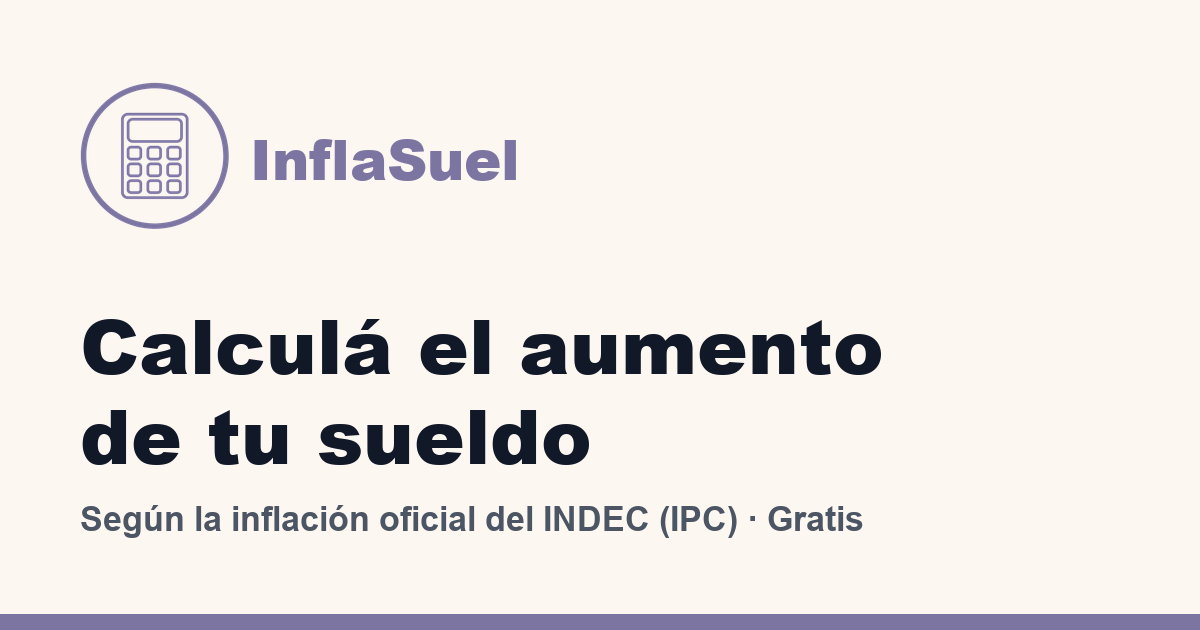
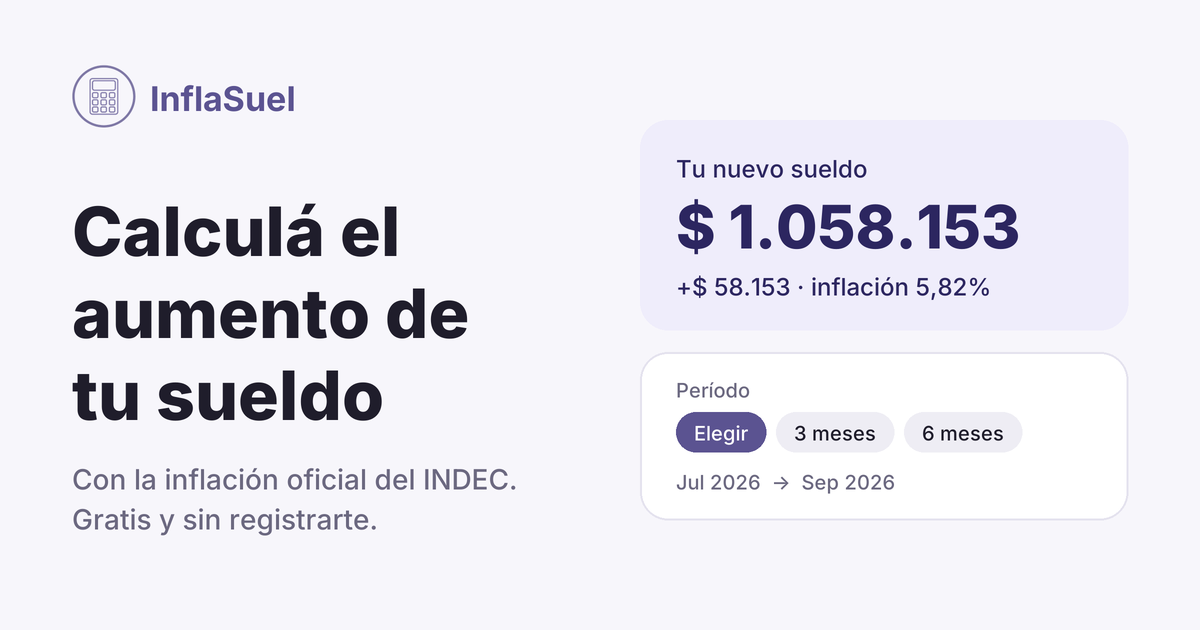
Compartir: imagen con el diseño nuevo, mejor texto y link con el período
- og-image rehecha con el estilo actual (Inter, tarjeta de resultado)
- Mensaje: "La inflación de junio a septiembre de 2026 fue de 7,81%..."
  con el link dentro del texto
- El link lleva ?desde=&hasta= y la app abre en ese período

diff --git a/src/components/ResultCard/index.jsx b/src/components/ResultCard/index.jsx
@@ -1,13 +1,15 @@
-import { formatearMesCorto, formatearPesos, formatearPorcentaje } from '../../lib/inflacion'
+import { formatearPesos, formatearPorcentaje, formatearRango } from '../../lib/inflacion'
 
 const SITIO = 'https://inflasuel.vercel.app'
 
+// El link lleva el período, así quien lo abre ve los mismos meses.
+// La URL va dentro del texto: varias apps descartan el texto si se pasa `url` aparte.
 const compartir = async (texto) => {
   if (navigator.share) {
-    try { await navigator.share({ text: texto, url: SITIO }) } catch {}
+    try { await navigator.share({ text: texto }) } catch {}
     return
   }
-  window.open(`https://wa.me/?text=${encodeURIComponent(`${texto} ${SITIO}`)}`, '_blank', 'noopener')
+  window.open(`https://wa.me/?text=${encodeURIComponent(texto)}`, '_blank', 'noopener')
 }
 
 const ResultCard = ({ estado, calculo, sueldo, desde, hasta, onReintentar }) => {
@@ -34,8 +36,8 @@ const ResultCard = ({ estado, calculo, sueldo, desde, hasta, onReintentar }) => 
 
   const { inflacion } = calculo
   const aumento = sueldo * inflacion / 100
-  const periodo = desde === hasta ? formatearMesCorto(desde) : `${formatearMesCorto(desde)} a ${formatearMesCorto(hasta)}`
-  const textoCompartir = `La inflación de ${periodo} fue ${formatearPorcentaje(inflacion)} según el INDEC. Calculá cuánto debería aumentar tu sueldo:`
+  const link = `${SITIO}/?desde=${desde}&hasta=${hasta}`
+  const textoCompartir = `📈 La inflación de ${formatearRango(desde, hasta)} fue de ${formatearPorcentaje(inflacion)}, según el INDEC.\n\nCalculá cuánto debería aumentar tu sueldo 👉 ${link}`
 
   return (
     <div className='rounded-3xl bg-accent-soft p-6 text-accent-ink' aria-live='polite'>

diff --git a/src/App.jsx b/src/App.jsx
@@ -20,6 +20,14 @@ const rangoDePreset = (serie, modo) => {
   return [serie[Math.max(1, ultimo - Number(modo) + 1)].periodo, hasta]
 }
 
+// Período que viene en un link compartido (?desde=2026-06&hasta=2026-09), si es válido
+const rangoDeLink = (serie) => {
+  const params = new URLSearchParams(window.location.search)
+  const [desde, hasta] = [params.get('desde'), params.get('hasta')]
+  const validos = new Set(serie.slice(1).map(d => d.periodo))
+  return validos.has(desde) && validos.has(hasta) && desde <= hasta ? [desde, hasta] : null
+}
+
 function App() {
   const [serie, setSerie] = useState([])
   const [estado, setEstado] = useState('cargando') // 'cargando' | 'listo' | 'error'
@@ -36,7 +44,7 @@ function App() {
       .then(datos => {
         setSerie(datos)
         // Por defecto se eligen los meses a mano, arrancando por los últimos 3 publicados
-        const [d, h] = rangoDePreset(datos, '3')
+        const [d, h] = rangoDeLink(datos) ?? rangoDePreset(datos, '3')
         setModo('elegir')
         setDesde(d)
         setHasta(h)

diff --git a/src/lib/inflacion.js b/src/lib/inflacion.js
@@ -73,3 +73,14 @@ export const MESES_CORTOS = ['Ene', 'Feb', 'Mar', 'Abr', 'May', 'Jun', 'Jul', 'A
 
 // "2026-09" -> "Sep 2026"
 export const formatearMesCorto = (periodo) => `${MESES_CORTOS[Number(periodo.slice(5, 7)) - 1]} ${periodo.slice(0, 4)}`
+
+const MESES_LARGOS = ['enero', 'febrero', 'marzo', 'abril', 'mayo', 'junio', 'julio', 'agosto', 'septiembre', 'octubre', 'noviembre', 'diciembre']
+const mesLargo = (periodo) => MESES_LARGOS[Number(periodo.slice(5, 7)) - 1]
+
+// Para textos: "junio a septiembre de 2026", "diciembre de 2025 a marzo de 2026" o "septiembre de 2026"
+export const formatearRango = (desde, hasta) => {
+  const [anioDesde, anioHasta] = [desde.slice(0, 4), hasta.slice(0, 4)]
+  if (desde === hasta) return `${mesLargo(hasta)} de ${anioHasta}`
+  if (anioDesde === anioHasta) return `${mesLargo(desde)} a ${mesLargo(hasta)} de ${anioHasta}`
+  return `${mesLargo(desde)} de ${anioDesde} a ${mesLargo(hasta)} de ${anioHasta}`
+}

diff --git a/test/inflacion.test.js b/test/inflacion.test.js
@@ -1,6 +1,6 @@
 import { test } from 'node:test'
 import assert from 'node:assert/strict'
-import { parsearSerie, parsearCSVIndec, calcularInflacion, calcularAumento, parsearSueldo, formatearMes, formatearMesCorto } from '../src/lib/inflacion.js'
+import { parsearSerie, parsearCSVIndec, calcularInflacion, calcularAumento, formatearRango, parsearSueldo, formatearMes, formatearMesCorto } from '../src/lib/inflacion.js'
 
 const serie = parsearSerie({
   data: [
@@ -68,4 +68,10 @@ test('parsearSueldo ignora puntos y símbolos', () => {
 
 test('formatearMesCorto', () => {
   assert.equal(formatearMesCorto('2026-09'), 'Sep 2026')
+})
+
+test('formatearRango arma el período en texto', () => {
+  assert.equal(formatearRango('2026-06', '2026-09'), 'junio a septiembre de 2026')
+  assert.equal(formatearRango('2025-12', '2026-03'), 'diciembre de 2025 a marzo de 2026')
+  assert.equal(formatearRango('2026-09', '2026-09'), 'septiembre de 2026')
 })

diff --git a/index.html b/index.html
@@ -28,7 +28,7 @@
     <meta property="og:url" content="https://inflasuel.vercel.app/" />
     <meta property="og:title" content="Calculá el aumento de tu sueldo según la inflación" />
     <meta property="og:description" content="Calculadora gratuita con el IPC oficial del INDEC: elegí el período y mirá cuánto debería aumentar tu sueldo." />
-    <meta property="og:image" content="https://inflasuel.vercel.app/og-image.png" />
+    <meta property="og:image" content="https://inflasuel.vercel.app/og-image.png?v=2" />
     <meta property="og:image:width" content="1200" />
     <meta property="og:image:height" content="630" />
     <meta property="og:image:alt" content="InflaSuel: calculá el aumento de tu sueldo según la inflación del INDEC" />
